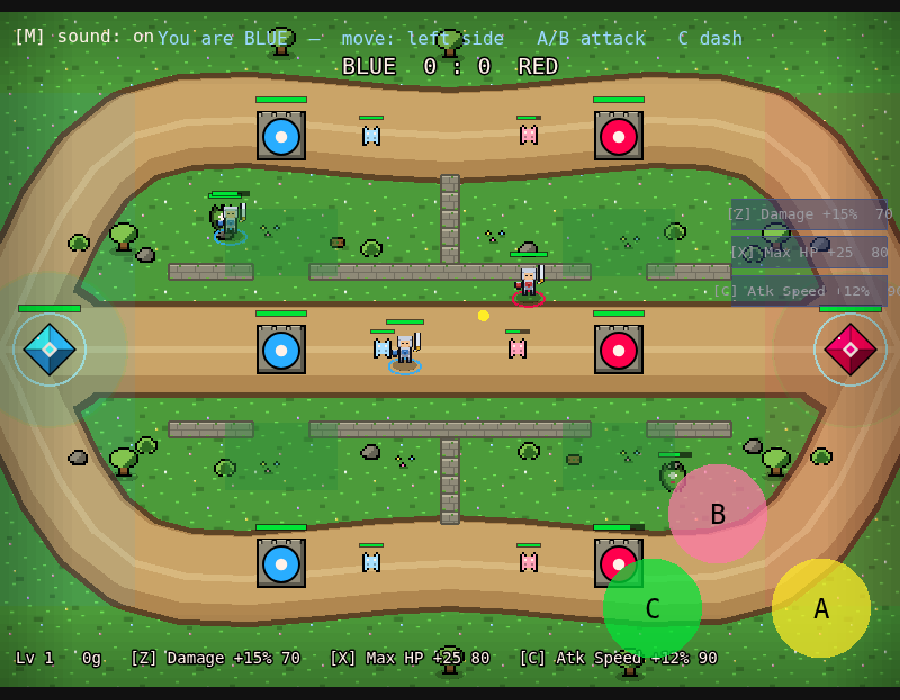
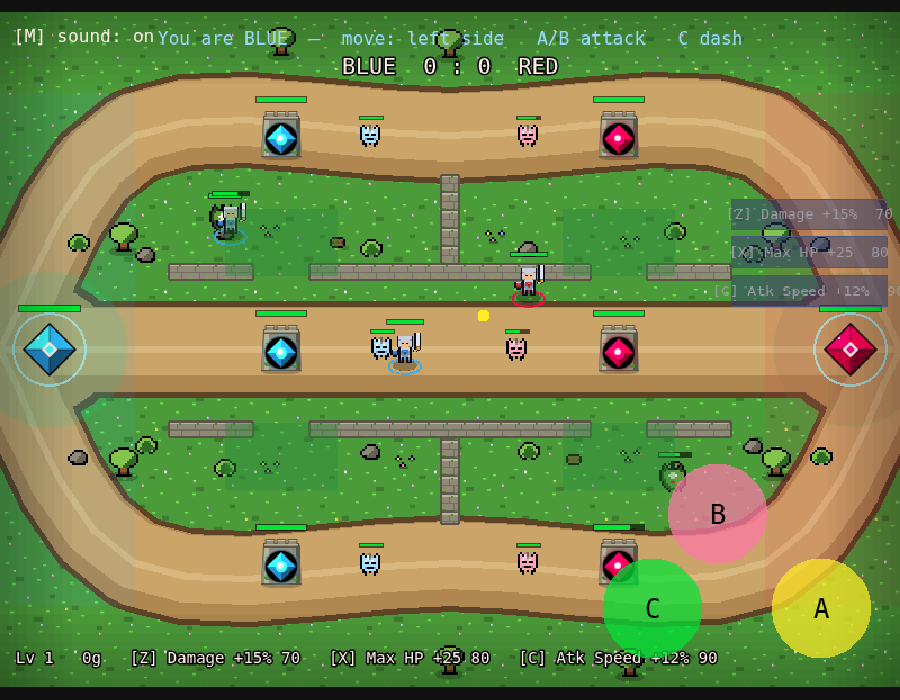
Docs: handover + map screenshot for iteration 3 polish
Note the death-poof and tower-art commits in HANDOVER (63 test groups)
and refresh the map screenshot showing the new mossy-stone towers.

https://claude.ai/code/session_01MAXKRUpJFcKFAvV2b8xTXo

diff --git a/HANDOVER.md b/HANDOVER.md
@@ -13,9 +13,12 @@
 >   size unchanged, m42); **floating damage numbers** (config-driven "-N" juice
 >   from snapshot HP deltas, bigger/red for your own hero, now on minions too,
 >   `config.js` `DMGTEXT`, m43); and **sharper goblin lane-minions** (crisper
->   silhouette + club, team tint + 20x20 size preserved, m44). All four are
->   client/render-only (no snapshot or server change). Before that: art-coherence
->   pass on the grassland "glades" look —
+>   silhouette + club, team tint + 20x20 size preserved, m44); a **death poof**
+>   (dusty puff + ring burst when a hero dies or a minion leaves the snapshot,
+>   team-tinted, `config.js` `POOF`, m45); and **mossy-stone guard towers** with a
+>   glowing team crystal (crenellated turret, 44x44 size + team colours preserved,
+>   m46). All six polish commits are client/render-only (no snapshot or server
+>   change). Before that: art-coherence pass on the grassland "glades" look —
 >   hero touch-ups (rebuilt tank as a great-helm + tower shield, single-bit
 >   brawler axe, attached knight shield, wood ranger bow, clearer scout dagger;
 >   all in `src/rpgsprites.js`), goblin lane minions, a darker forest camp, and
@@ -27,7 +30,7 @@
 >   m39); curved MOBA lanes + nexus plazas; "Tiny RPG" heroes on team rings;
 >   chokepoints removed (lanes are OPEN — towers are landmarks, not walls);
 >   jungle gank gaps; per-hero abilities.
-> **Status:** all tests green (61 test groups), live two-browser test green, build OK.
+> **Status:** all tests green (63 test groups), live two-browser test green, build OK.
 >
 > ⚠ **WORK FROM THE BRANCH, NOT `main`.** All work lives on
 > **`claude/pixel-moba-game-WobPa`** (PR #1 → `main`). `main` is the empty root
